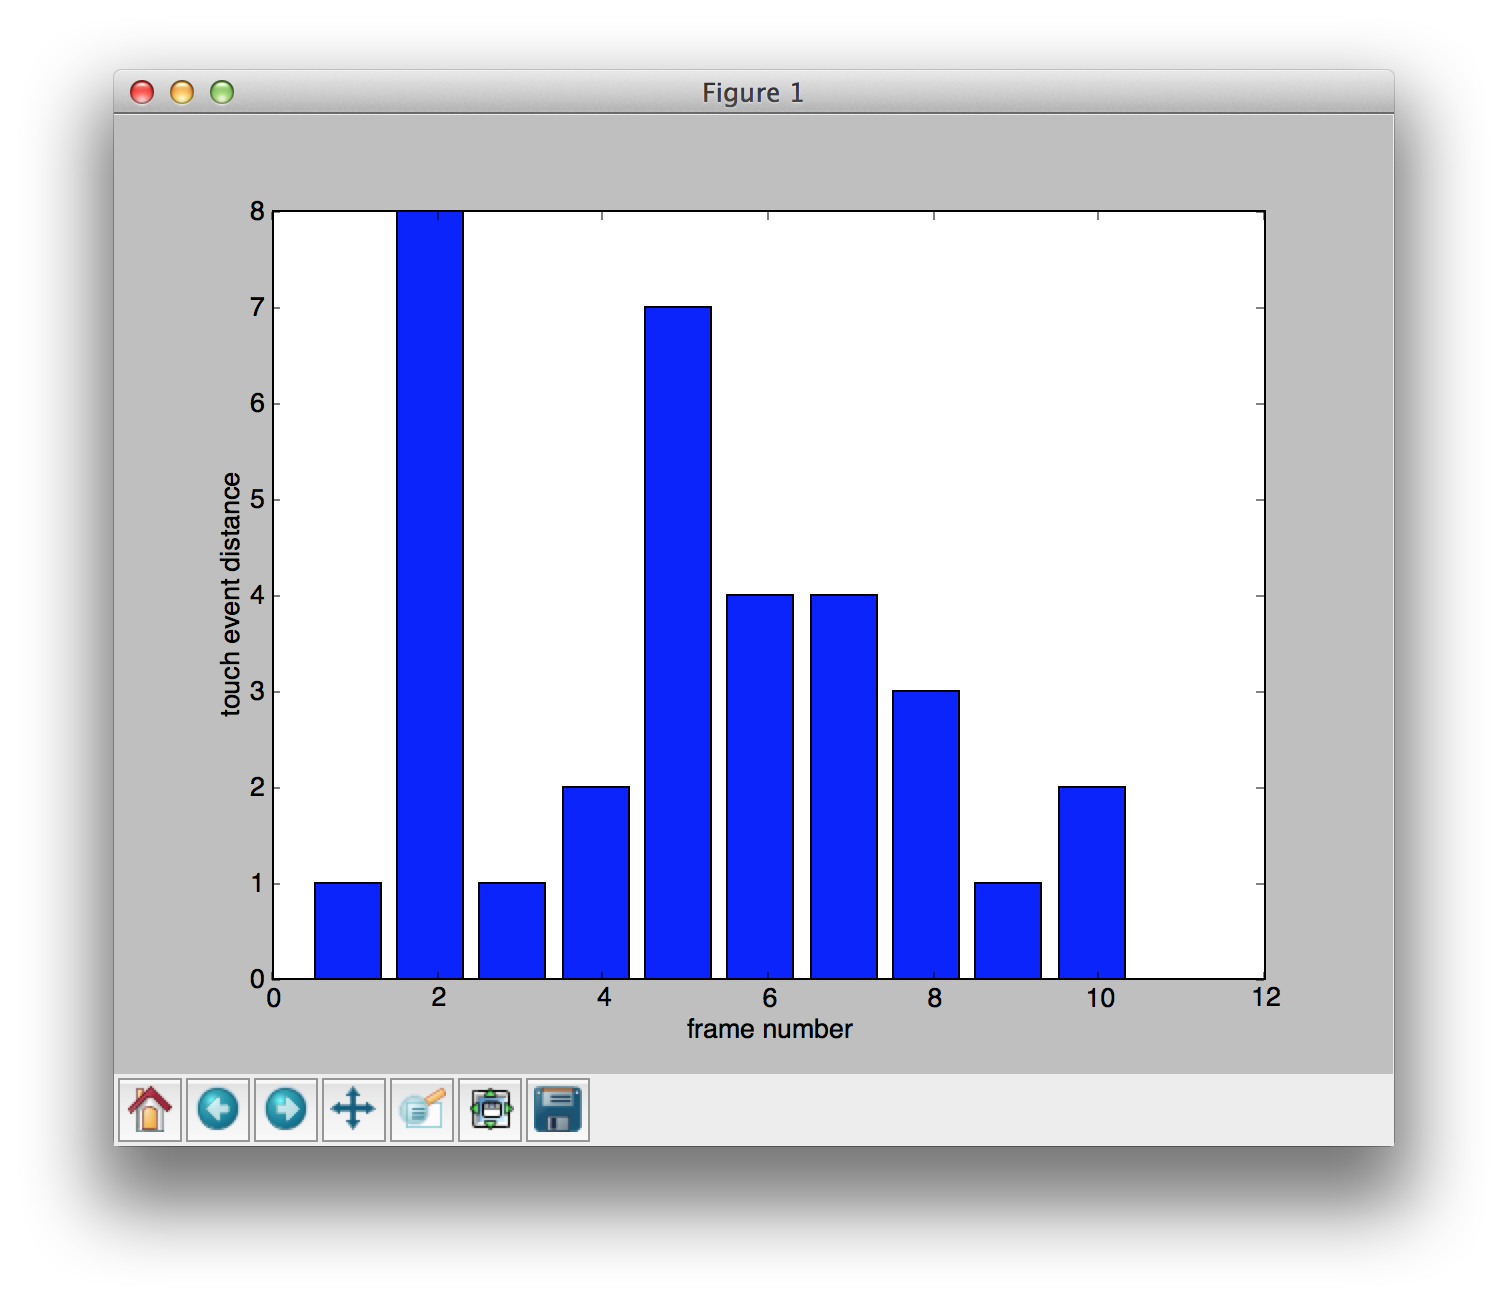
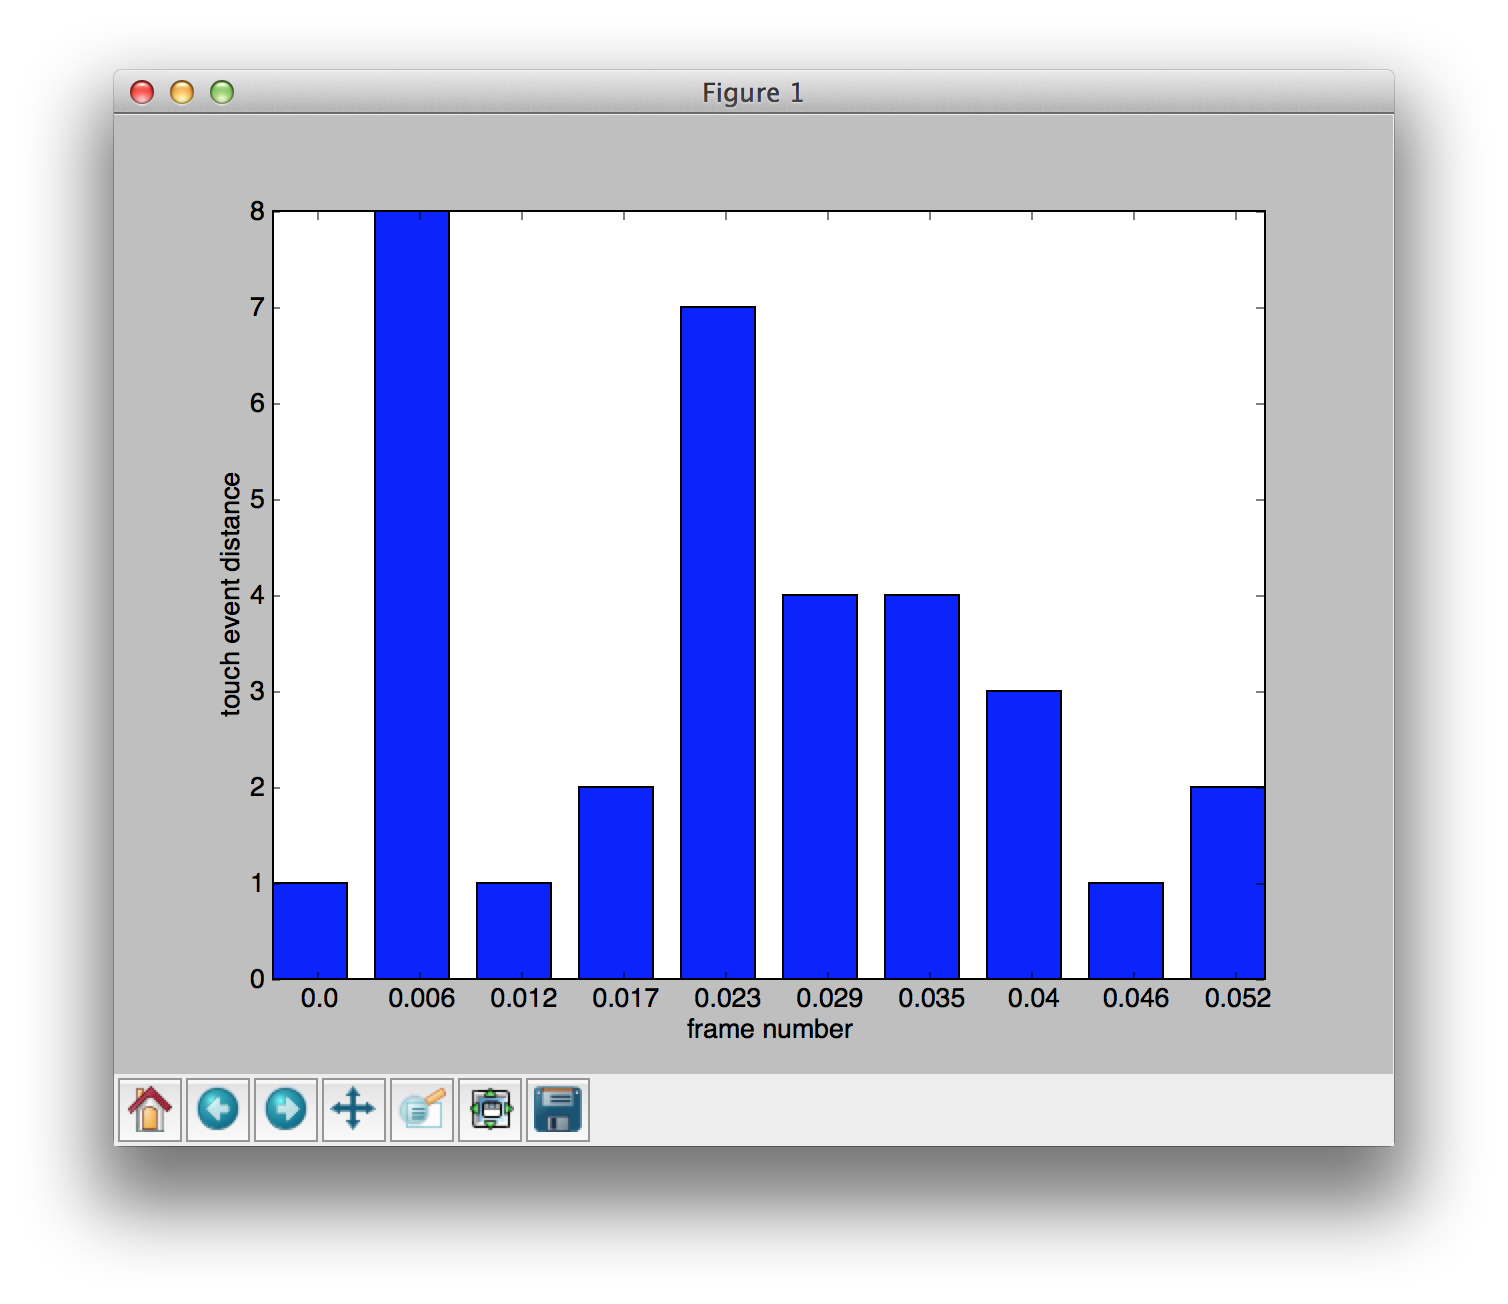
update barchar image

Changed region(s): [[0.1558, 0.1534, 0.8415, 0.7975]]

diff --git a/silk_profiler.py b/silk_profiler.py
@@ -142,32 +142,36 @@ class SilkProfiler(object):
     """
       Draw bar histogram
     """
-    # Divide yPlots into 10 groups
     minPlot = np.min(yPlots)
     maxPlot = np.max(yPlots)
 
-    if minPlot == maxPlot: # Perfect condition
+    # All yPlots have the same value. Perfect condition
+    if minPlot == maxPlot:
       plt.bar([2], [len(yPlots)])
       return
 
-    xPositions = np.linspace(0., 10., 10).tolist()
+    # Divide yPlots into 10 groups
+    # it's.... so uglyyyyyy... find a better way.
     ranges = np.linspace(minPlot, maxPlot, 10).tolist()
 
-    # it's.... so uglyyyyyy... find a better way.
-    buckets = [0] * 10
+    accounts = [0] * 10
     for plot in yPlots:
-      for i in ranges:
-        if plot <= i:
-          buckets[ranges.index(i)] += 1
+      for i,n in enumerate(ranges):
+        if plot <= n:
+          accounts[i] += 1
           break
 
-    xTickLabel = ranges;
-    for i,n in enumerate(xTickLabel) :
-      xTickLabel[i] = round(xTickLabel[i], 3)
+    # Round xticks to shrink the space between ticks
+    xTickLabels = ranges;
+    for i,n in enumerate(xTickLabels) :
+      xTickLabels[i] = round(xTickLabels[i], 3)
 
-    xTickPosition = np.linspace(0.5, 10.5, 10).tolist()
-    plt.xticks(xTickPosition, xTickLabel)
-    plt.bar(xPositions, buckets)
+    xTickPositions = np.linspace(0.5, 10.5, 10).tolist()
+    plt.xticks(xTickPositions, xTickLabels)
+
+    # Draw bar chart.
+    barPositions = np.linspace(0., 10., 10).tolist()
+    plt.bar(barPositions, accounts)
 
   def Print(self):
     if False == self.mInit:
